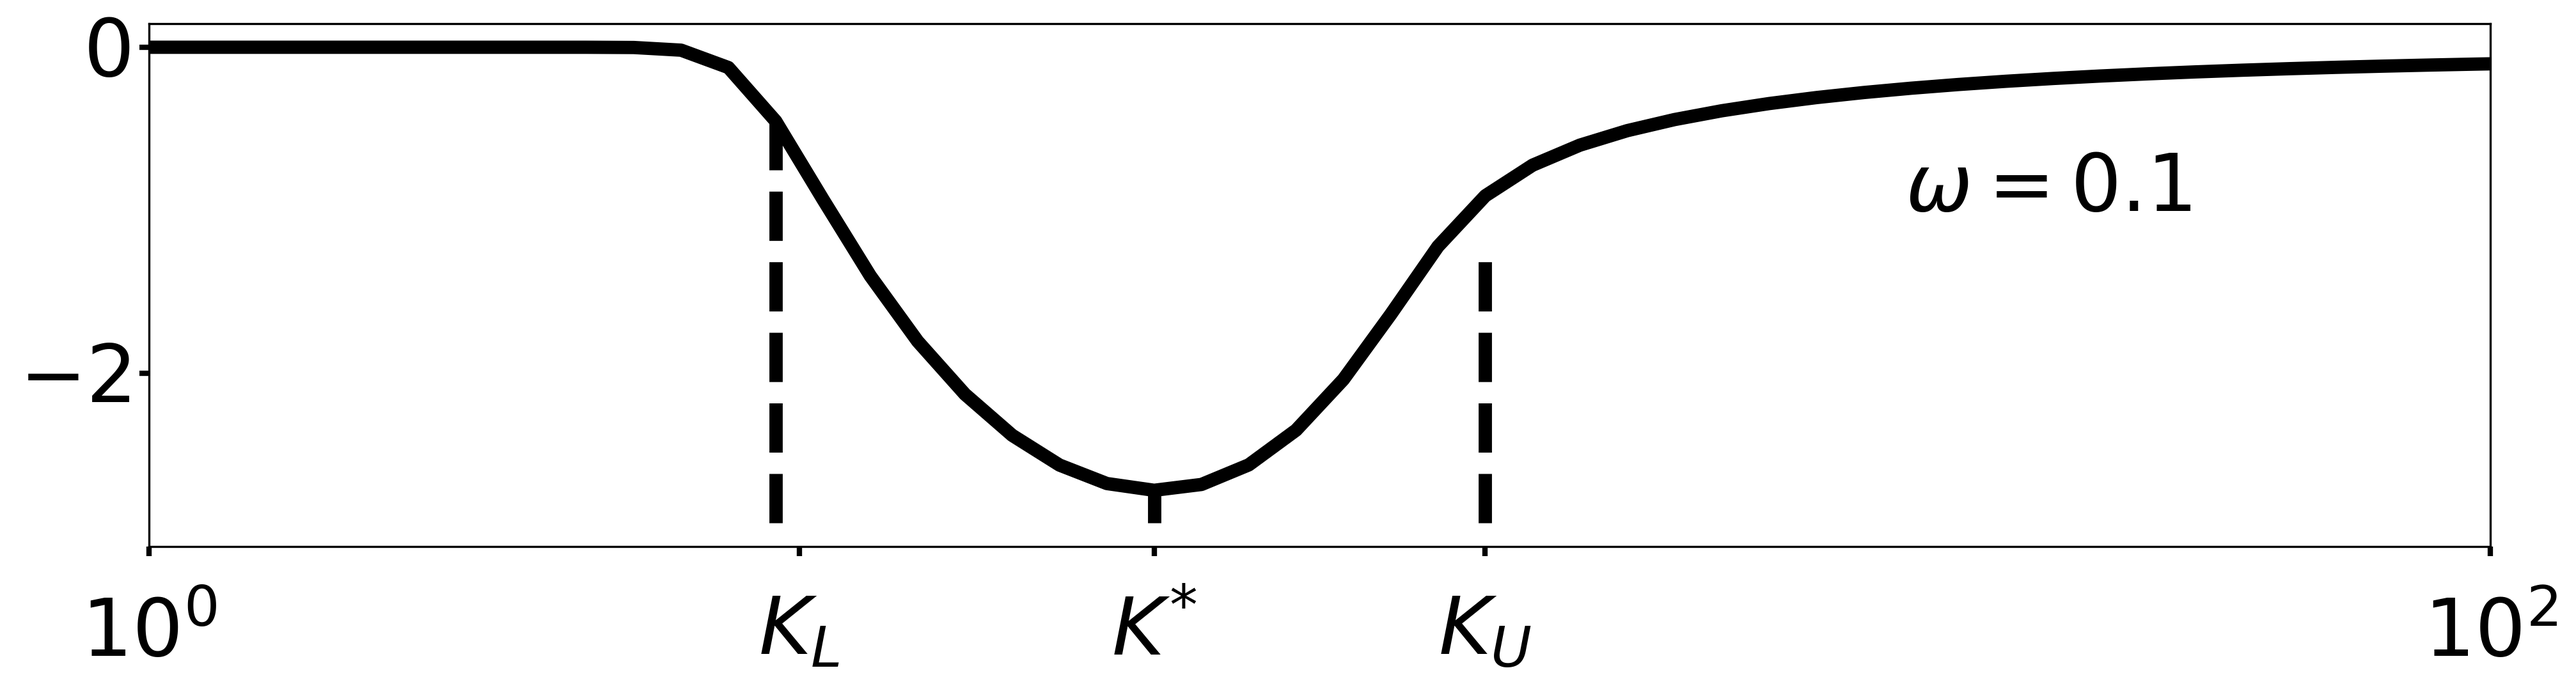
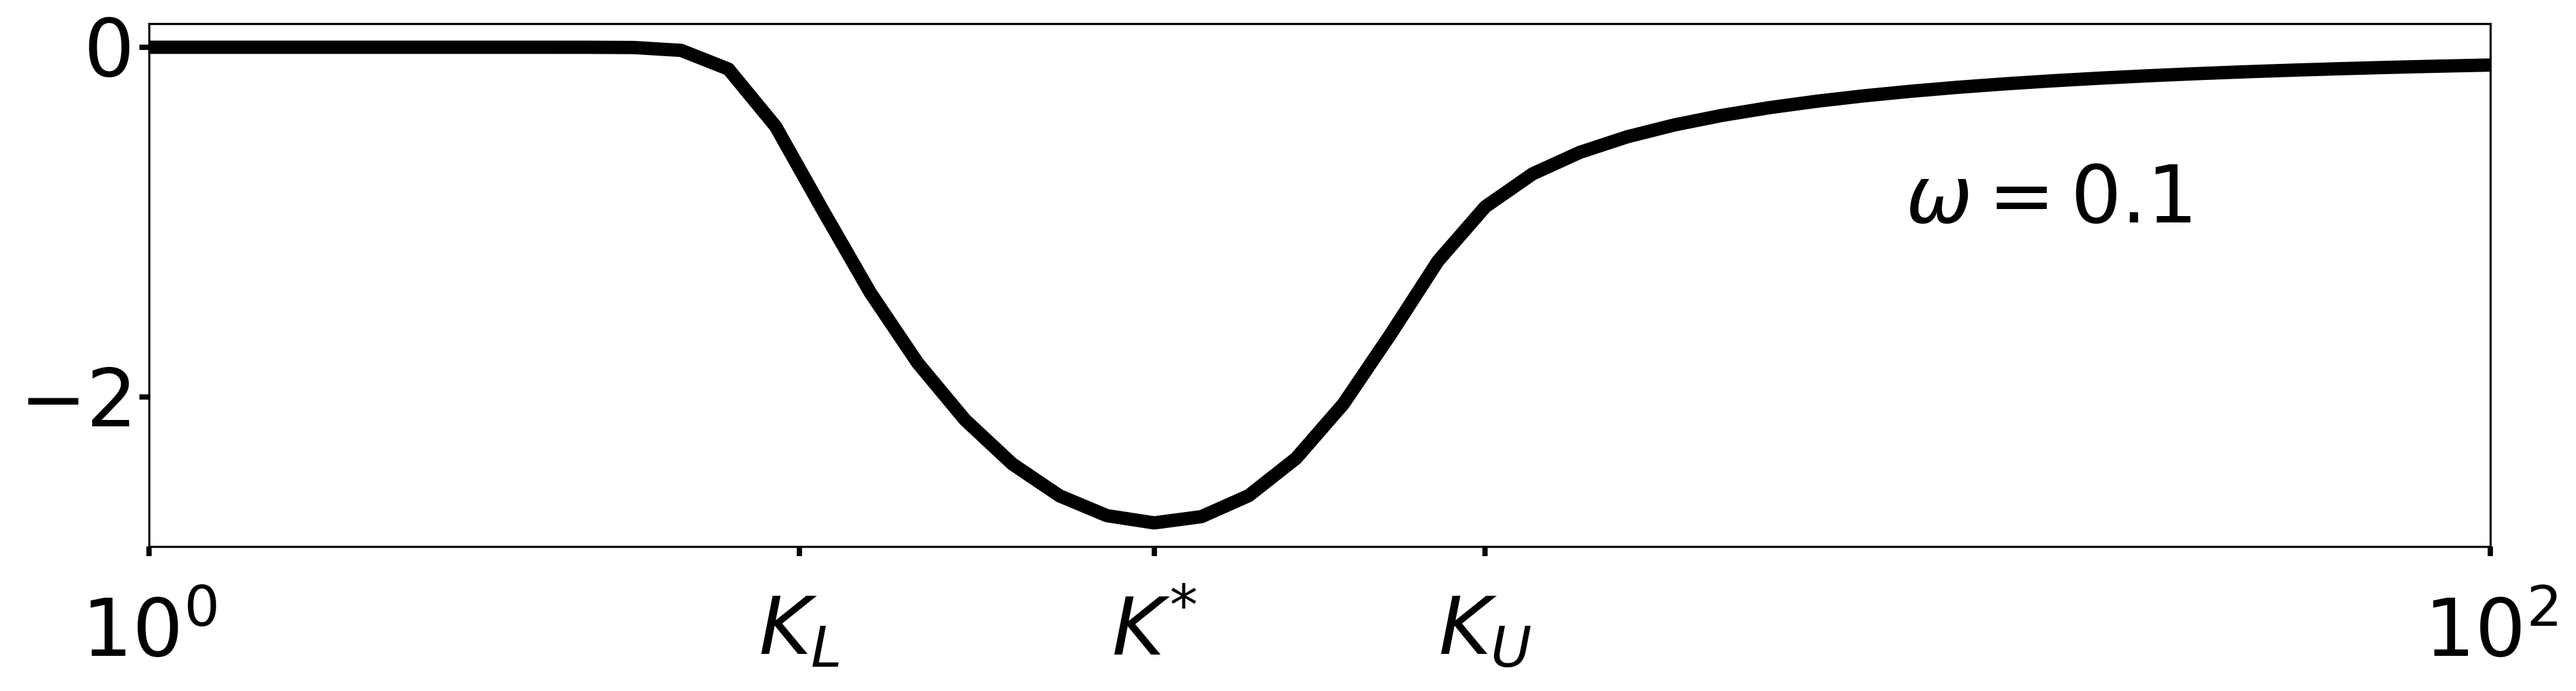
correct fig 3a

diff --git a/Simulations/Periodic/Global_Minimum/Plotting.py b/Simulations/Periodic/Global_Minimum/Plotting.py
@@ -326,18 +326,23 @@ plt.scatter([np.log10(LList[index])],
 
 
 #Dashed line for the location of L^* and LU
+
 index = np.argmin(dRList/LList)
-plt.plot([np.log10(LList[index]),np.log10(LList[index])],
-        [min(np.log10(dRList/LList)-0.2),np.log10(dRList/LList)[index]],
-        '--k',
-        linewidth = 5)
+#plt.plot([np.log10(LList[index]),np.log10(LList[index])],
+#        [min(np.log10(dRList/LList)-0.2),np.log10(dRList/LList)[index]],
+#        '--k',
+#        linewidth = 5)
 
-
+GradientLogdRList = np.asarray(GradientLogdRList)
 index = np.argmin(GradientLogdRList)
-plt.plot([np.log10(LList[index]),np.log10(LList[index])],
-        [min(np.log10(dRList/LList))-0.2,np.log10(dRList/LList)[index]],
-        '--k',
-        linewidth = 5)
+
+#plt.plot([GradientLogLList[index],GradientLogLList[index]],
+#        [min(np.log10(dRList/LList))-0.2,np.log10(dRList/LList)[index]],
+#        '--k',
+#        linewidth = 5)
+
+MinGradient = GradientLogLList[index]
+
 
 
 CurvLogdRList = np.asarray(CurvLogdRList)
@@ -345,13 +350,11 @@ print(CurvLogdRList)
 CurvMinima = argrelextrema(CurvLogdRList, np.less)
 index = CurvMinima[0][-1]
 print(index)
-#LastMin = CurvLogdRList[index]
-#index = np.where(CurvLogdRList == LastMin)[0]
-#index = np.argmin(CurvLogdRList)
-plt.plot([CurvLogLList[index],CurvLogLList[index]],
-        [min(np.log10(dRList/LList))-0.2,np.log10(dRList/LList)[index]],
-        '--k',
-        linewidth = 5)
+
+#plt.plot([CurvLogLList[index],CurvLogLList[index]],
+#        [min(np.log10(dRList/LList))-0.2,np.log10(dRList/LList)[index]],
+#        '--k',
+#        linewidth = 5)
 
 MinCurvature = CurvLogLList[index]
 
